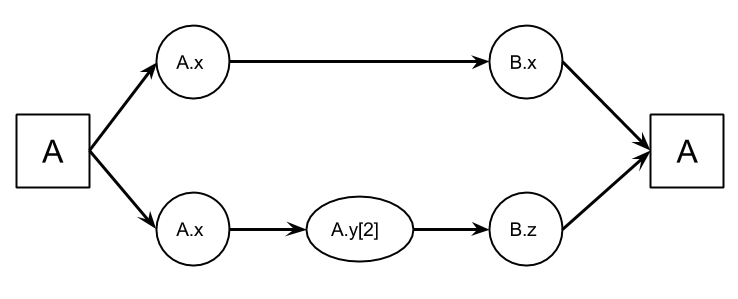
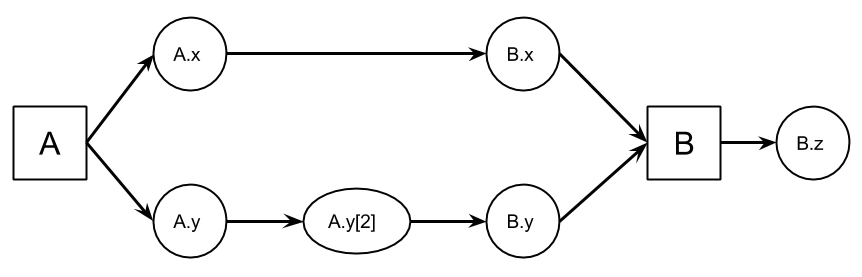
updated the graph section a bit

diff --git a/graph_framework.tex b/graph_framework.tex
@@ -206,25 +206,29 @@
       \caption{ Dependency graph for the Sellar problem. \label{fig:sellar_graph}}
     \end{center}\end{figure}
 
-    In Pate et al.'s graph syntax, a single node is given for every variable. This graph contains all the
-    information needed to take full advantage of problem sparsity but suffers from one potential
+    In Pate et al.'s graph syntax, a single node is given for every variable, and two nodes are given 
+    for each discipline analysis. The dual discipline nodes were prescribed in order to create an edge 
+    that could be assigned a weight in case weighted graph traversal algorithms were desired. However, 
+    they acknowledge that the dual nodes are often unnecessary and could be avoided for the sake of simplicity. 
+    This graph contains all the information needed to take full advantage of problem sparsity but suffers from one potential
     weakness. For a problem with millions of  variables, like the small satellite design problem,
     the graph would get very large and would be inefficient to operate on. To address this issue,
     related variables (i.e., arrays) can be aggregated into a single node to represent the
-    overall variable. If any specific sub-variable is referenced (e.g., some slice of an array) 
+    overall variable. For problems with large arrays, this modification results in a significant reduction
+    in the overall size of the graph. If any specific subvariable is referenced (e.g., some slice of an array) 
     then a new node is added to represent that relationship.
-    Figure \ref{fig:subvars} shows how the sub-variable nodes relate to their parent variables. Here,
+    Figure \ref{fig:subvars} shows how subvariable nodes relate to their parent variables. Here,
     both outputs $A.x$ and $A.y$ are array variables. The full array $A.x$ is connected to
-    $B.x$ while a single element of $A.y$ is connected to the scalar $B.z$.
+    $B.x$ while a single element of $A.y$ is connected to the scalar $B.y$. 
 
     \begin{figure}[!htb]\begin{center}
       \includegraphics[width=.8\textwidth]{images/sub-var-node-graph}
       \caption{ Example graph with child nodes for subvariables. \label{fig:subvars}}
     \end{center}\end{figure}
 
-    By using the sub-variable nodes, the computational advantages of problem sparsity are retained. For example,
+    By using the subvariable nodes, the computational advantages of problem sparsity are retained. For example,
     consider $\frac{\partial B.z}{\partial A.y}$ from Fig. \ref{fig:subvars}. Given the graph, we know that
-    this derivative will be sparse, with only $A.y[2]$ having nonzero values as in Eq.  \ref{eqn:sparse_gradient}.
+    this gradient will be sparse, with only the element relating to $A.y[2]$ having nonzero values as in Eq.  \ref{eqn:sparse_gradient}.
 
     \begin{equation}
         \frac{\partial B.z}{\partial A.y} =
@@ -238,8 +242,8 @@
         \label{eqn:sparse_gradient}
     \end{equation}
 
-    When solving for derivatives, without the subvariable node, all the
-    elements of the $A.y$ array must be included in the linear system for derivatives calculations.
+    Because of the variable aggregation, solving for derivatives without the subvariable node would require 
+    all the elements of the $A.y$ array to be included in the linear system.
     With the subvariable node, only the single relevant value from the array needs to be included.
     By representing hierarchical data as a single node, the overall size of the graph
     remains manageable, and the subvariable nodes are used to preserve the benefits of sparsity.
@@ -273,8 +277,6 @@
         the opposite direction. To do this, simply reverse all of the edges in the dependency graph and 
         perform one traversal from each quantity of interest to all possible parameters. 
         
-
-
     \subsection{Cycle Detection and Usage}
         Pate et al. stated that within a dependency graph, the presence of cycles indicates coupling between
         the components in the cycle \cite{graph_problem2013}. Cycles can be induced by connections
